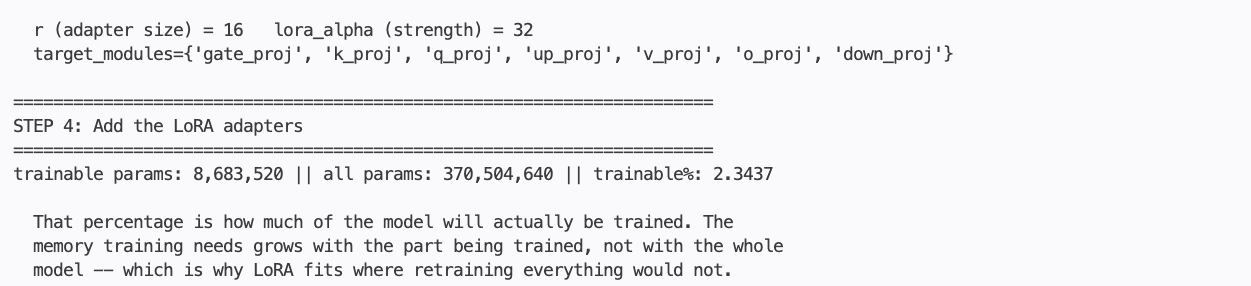
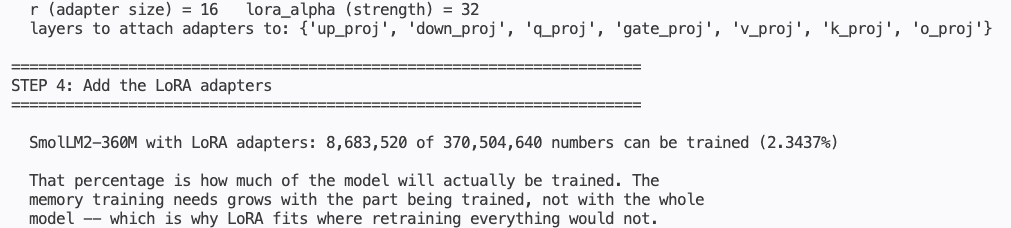
updates to clean up jargon

diff --git a/finetune/lab5_eval.py b/finetune/lab5_eval.py
@@ -48,7 +48,7 @@ ORDER = ["baseline_distilgpt2", "bestprompt_smollm2", "fullft_distilgpt2",
 LABEL = {
     "baseline_distilgpt2": "Lab 1  bare prompt distilgpt2  82M",
     "bestprompt_smollm2":  "Lab 1  best prompt SmolLM2  360M",
-    "fullft_distilgpt2":   "Lab 2  full FT     distilgpt2  82M",
+    "fullft_distilgpt2":   "Lab 2  retrain all distilgpt2  82M",
     "lora_smollm2":        "Lab 3  LoRA        SmolLM2  360M",
     "qlora_smollm2":       "Lab 4  QLoRA test  SmolLM2  360M",
 }
@@ -140,14 +140,14 @@ for pred, row in zip(preds, eval_rows):
     #         the prediction matches, otherwise record the mix-up pair.
     per[row["category"]][1] += 1
 
-print(f"\n  {'true category':24s} {'correct':>9s} {'n':>4s}")
-print("  " + "-" * 40)
+print(f"\n  {'right category':24s} {'correct':>9s} {'tickets':>8s}")
+print("  " + "-" * 44)
 for cat in sorted(per):
     ok, n = per[cat]
-    print(f"  {cat:24s} {ok:9d} {n:4d}")
+    print(f"  {cat:24s} {ok:9d} {n:8d}")
 
 if confusions:
-    print("\n  Most common confusions (true -> predicted):")
+    print("\n  Most common mix-ups (right category -> model's answer):")
     for (t, g), c in confusions.most_common(5):
         print(f"    {t:24s} -> {g:24s} x{c}")
 
@@ -169,7 +169,8 @@ print("=" * 78)
 shown = 0
 for pred, row in zip(preds, eval_rows):
     if pred != row["label"] and shown < 4:
-        print(f"\n  TICKET   : {row['ticket'][:100]}")
+        more = "..." if len(row["ticket"]) > 100 else ""
+        print(f"\n  TICKET   : {row['ticket'][:100]}{more}")
         print(f"  EXPECTED : {row['label']}")
         print(f"  PREDICTED: {pred!r}")
         shown += 1
@@ -311,7 +312,7 @@ else:
                  the model THIS STEP used to call, llama-3.3-70b-versatile,
                  was switched off by Groq on 2026-08-16, and the step broke
                  until someone changed one line. Your Lab 3 adapter still runs.
-    Reliability -- a prompt only asks the model to behave a certain way;
+    Behavior  -- a prompt only asks the model to behave a certain way;
                  training changes the model itself.
 
   If the big model wins on the scores here, the honest conclusion is: this
@@ -332,10 +333,10 @@ print("""
   You now have the evidence to answer five separate questions:
 
     Does fine-tuning help this task?      -> best-prompt row vs. trained rows
-    Do we need full fine-tuning?          -> Lab 2 vs. Lab 3 quality per MB
-    Do we need a bigger model?            -> category accuracy across sizes
+    Do we need full fine-tuning?          -> Lab 2 vs. Lab 3: scores and file size
+    Do we need a bigger model?            -> category scores by model size
     Did we break anything?                -> the quiz changes in Step 5
-    Should we have just used an API?      -> the Step 6 head-to-head
+    Should we just use a hosted model?    -> the Step 6 comparison
 
   That is the whole job. Everything else is adjusting settings.
 """)

diff --git a/finetune/lab4_qlora.py b/finetune/lab4_qlora.py
@@ -32,7 +32,8 @@ from peft import LoraConfig, PeftModel, get_peft_model, prepare_model_for_kbit_t
 
 from common.triage import (
     load_tickets, build_prompt, generate_predictions,
-    score, print_scores, save_result, model_size_mb, plain_progress, OUT_DIR,
+    score, print_scores, save_result, model_size_mb, plain_progress, param_report,
+    OUT_DIR,
 )
 
 BASE_MODEL = "HuggingFaceTB/SmolLM2-360M-Instruct"   # same model as Lab 3
@@ -109,13 +110,13 @@ print("STEP 3: Look inside one 4-bit layer")
 print("=" * 70)
 
 layer = model.model.layers[0].self_attn.q_proj
-print(f"\n  layer type        : {type(layer).__name__}")
-print(f"  stored as         : {layer.weight.dtype} (whole bytes), shape {tuple(layer.weight.shape)}")
+print(f"\n  layer type        : {type(layer).__name__}  (a 4-bit layer)")
+print(f"  stored as         : whole bytes, {layer.weight.shape[0]:,} rows x {layer.weight.shape[1]} column")
 print(f"  4-bit format      : {layer.weight.quant_state.quant_type}")
 print(f"  numbers per group : {layer.weight.quant_state.blocksize}")
 print("""
-  Two 4-bit numbers are packed into each byte, which is why the shape looks
-  squashed into one column. The numbers are kept in groups of 64, each with
+  Two 4-bit numbers are packed into each byte, which is why the layer is
+  stored as one long column. The numbers are kept in groups of 64, each with
   its own scale, so one unusually large number can't throw off all the rest.
   The "nf4" format places its 16 possible values where a trained model's
   numbers actually tend to fall.
@@ -146,7 +147,7 @@ peft_config = LoraConfig(
 print("\n  Same LoRA settings as Lab 3. The only change: the model underneath is 4-bit.")
 
 model = get_peft_model(model, peft_config)
-model.print_trainable_parameters()
+param_report(model, "SmolLM2-360M, 4-bit, with LoRA adapters")
 
 
 # ==========================================================================
@@ -278,7 +279,7 @@ base = AutoModelForCausalLM.from_pretrained(BASE_MODEL, dtype=torch.bfloat16)
 #         so it becomes one ordinary model again.
 merged = base
 
-print(f"  model type after folding in : {type(merged).__name__}")
+print(f"  adapter wrapper still on    : {'yes' if type(merged).__name__.startswith('Peft') else 'no'}")
 lora_left = [n for n, _ in merged.named_modules() if "lora" in n.lower()]
 print(f"  separate adapter pieces left: {len(lora_left)}")
 

diff --git a/common/triage.py b/common/triage.py
@@ -348,9 +348,15 @@ def save_result(key, scores, extra=None):
 # --------------------------------------------------------------------------
 
 def param_report(model, label="model"):
-    """Print total vs. trainable parameter counts -- the LoRA money shot."""
-    total = sum(p.numel() for p in model.parameters())
-    trainable = sum(p.numel() for p in model.parameters() if p.requires_grad)
+    """Print how many of the model's numbers can be trained, out of the total."""
+    def count(p):
+        n = p.numel()
+        # A 4-bit layer packs two numbers into each stored byte, so count both.
+        if p.__class__.__name__ == "Params4bit":
+            n *= 2 * getattr(getattr(p, "quant_storage", None), "itemsize", 1)
+        return n
+    total = sum(count(p) for p in model.parameters())
+    trainable = sum(count(p) for p in model.parameters() if p.requires_grad)
     print(f"\n  {label}: {trainable:,} of {total:,} numbers can be trained "
           f"({100 * trainable / total:.4f}%)")
     return trainable, total

diff --git a/labs.md b/labs.md
@@ -403,8 +403,8 @@ miss layers.
 - **`lora_alpha`** — how strongly the adapter's adjustments count. The usual
   rule is twice `r` (here 16 and 32).
 
-Then find the line STEP 4 prints: `trainable%: 2.34` or close to it. That is
-how much of the model will be trained. Lab 2 trained 100%. (STEP 1 also shows
+Then find the line STEP 4 prints, ending in `(2.3437%)` or close to it. That
+is how much of the model will be trained. Lab 2 trained 100%. (STEP 1 also shows
 100%, because that is before the adapters are added.)
 
 ![Lab 3 trainable parameter percentage](./images/ft-lab3-trainable.png?raw=true "LoRA trains about 2% of the parameters")
@@ -483,7 +483,7 @@ goal is to fit a bigger model into the memory you have.
 
 **Read this before you run it.** This lab shows *how* QLoRA works and how much
 memory it saves — not how good its results are. It trains for only **4 steps**,
-because on a CPU the 4-bit math is very slow: about 20 times slower per example
+because on a CPU the 4-bit math is very slow: about 20-30 times slower per example
 than Lab 3. (On a GPU the slowdown is much smaller.) **QLoRA saves memory, not
 time.**
 
@@ -626,7 +626,9 @@ lm_eval run --model hf \
   --output_path out/harness-base
 ```
 
-Warnings about the number of "few-shot" examples are harmless.
+The tool prints a lot of technical detail, including warnings about "few-shot"
+examples (sample questions it can show before each one). You can ignore them;
+the Lab 5 script reads the results for you.
 
 <br><br>
 
@@ -679,7 +681,7 @@ run                                      format  category  priority   queue     
 -------------------------------------------------------------------------------------------------
 Lab 1  bare prompt distilgpt2  82M        0.0%     0.0%     0.0%   0.0%       -      -      -
 Lab 1  best prompt SmolLM2  360M        100.0%    30.0%    45.0%  45.0%       -      -      -
-Lab 2  full FT     distilgpt2  82M        ...      ...      ...    ...      ...     72    ...
+Lab 2  retrain all distilgpt2  82M        ...      ...      ...    ...      ...     72    ...
 Lab 3  LoRA        SmolLM2  360M          ...      ...      ...    ...      ...     24    ...
 Lab 4  QLoRA test  SmolLM2  360M          ...      ...      ...    ...      ...      4    ...
   (random guessing, on average: category 12.5%, priority 25.0%, queue 16.7%)

diff --git a/anticipated-qa.md b/anticipated-qa.md
@@ -180,11 +180,11 @@ weight into magnitude and direction and applies the low-rank update only to the
 direction. At r=16 on an easy task the difference will be small or lost in noise.
 Cost is a bit more time per step and a few more parameters.
 
-**Q: My trainable% came out much lower than yours. Why?**
+**Q: My trainable share (STEP 4's percentage) came out much lower than yours. Why?**
 A: Almost certainly your `target_modules` matched fewer layers than you intended.
 That is the classic LoRA failure and it fails quietly — training runs happily and
-nothing improves. Print the module names (Lab 3 Step 2) and check the count in
-`print_trainable_parameters()`.
+nothing improves. Print the module names (Lab 3 Step 2) and check the count STEP 4
+prints.
 
 **Q: Can I fine-tune on top of an already fine-tuned model?**
 A: Yes. Either merge the first adapter and train a new one on the merged model, or
